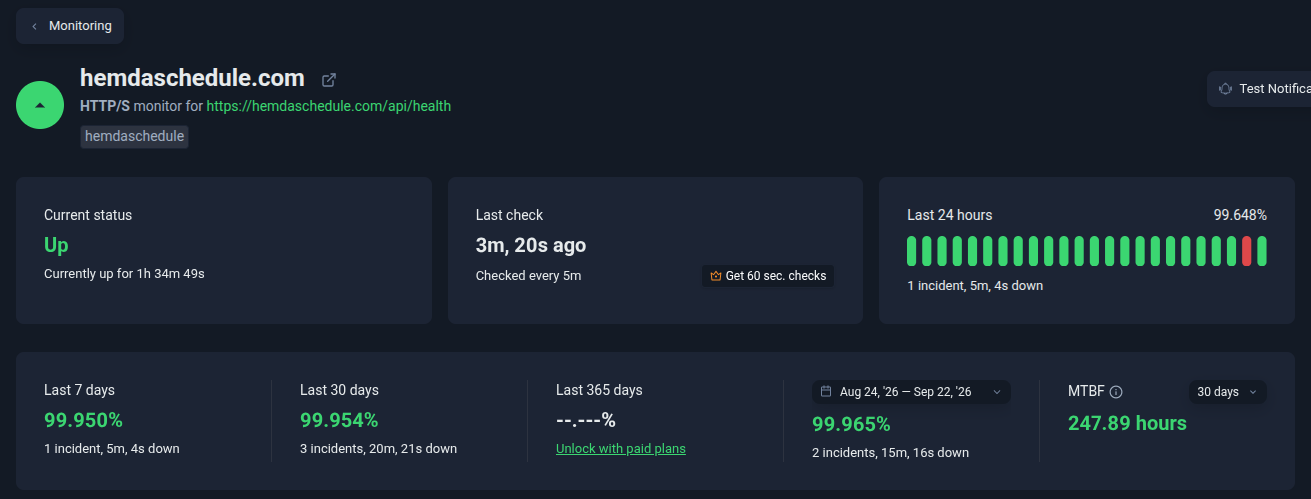
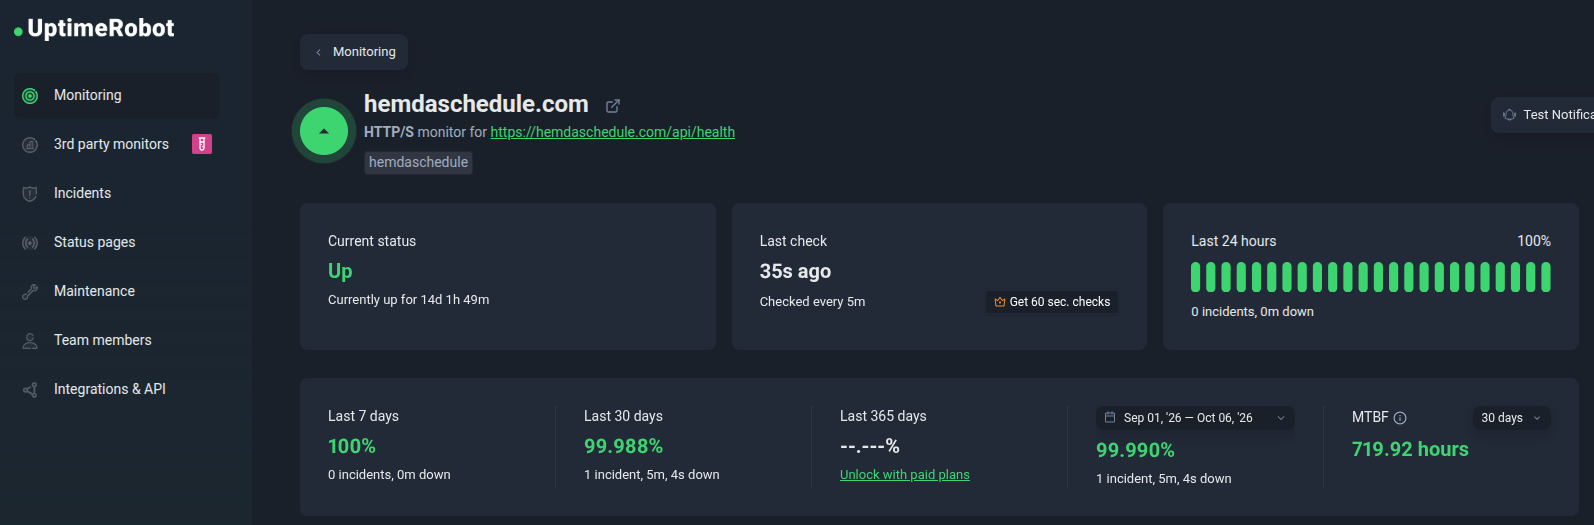
Update production monitoring screenshot and uptime figure (99.988%)
Replace the UptimeRobot screenshot with a fresher capture and sync the
caption text across all 5 language versions to match.

diff --git a/portfolio-case-ru.html b/portfolio-case-ru.html
@@ -385,9 +385,9 @@
       <img src="img/production-monitoring.png" alt="Production monitoring" onclick="openLightbox(this)">
       <div class="screenshot-caption">
         <strong>Production monitoring</strong> — система находится под постоянным внешним
-        мониторингом доступности. Uptime за последний месяц — 99.965%. Оба зарегистрированных
-        инцидента были плановыми остановками во время деплоя новых версий, включая миграции БД и
-        перезапуск контейнеров backend/frontend.
+        мониторингом доступности. Uptime за последний месяц — 99.988%. Единственный
+        зарегистрированный инцидент был плановой остановкой во время деплоя новой версии, включая
+        миграцию БД и перезапуск контейнеров backend/frontend.
       </div>
     </div>
 

diff --git a/portfolio-case-ua.html b/portfolio-case-ua.html
@@ -385,8 +385,8 @@
       <img src="img/production-monitoring.png" alt="Production monitoring" onclick="openLightbox(this)">
       <div class="screenshot-caption">
         <strong>Production monitoring</strong> — система перебуває під постійним зовнішнім
-        моніторингом доступності. Uptime за останній місяць — 99.965%. Обидва зареєстровані
-        інциденти були плановими зупинками під час деплою нових версій, включно з міграціями БД і
+        моніторингом доступності. Uptime за останній місяць — 99.988%. Єдиний зареєстрований
+        інцидент був плановою зупинкою під час деплою нової версії, включно з міграцією БД і
         перезапуском контейнерів backend/frontend.
       </div>
     </div>

diff --git a/portfolio-case-he.html b/portfolio-case-he.html
@@ -380,8 +380,8 @@
       <img src="img/production-monitoring.png" alt="Production monitoring" onclick="openLightbox(this)">
       <div class="screenshot-caption">
         <strong>Production monitoring</strong> — המערכת נמצאת תחת ניטור זמינות חיצוני מתמשך. זמן
-        פעילות בחודש האחרון — 99.965%. שני האירועים שנרשמו היו השבתות מתוכננות בזמן פריסת גרסאות
-        חדשות, כולל מיגרציות בסיס נתונים ואתחול מחדש של קונטיינרים ה-backend/frontend.
+        פעילות בחודש האחרון — 99.988%. האירוע היחיד שנרשם היה השבתה מתוכננת בזמן פריסת גרסה
+        חדשה, כולל מיגרציית בסיס נתונים ואתחול מחדש של קונטיינרים ה-backend/frontend.
       </div>
     </div>
 

diff --git a/portfolio-case-pl.html b/portfolio-case-pl.html
@@ -385,9 +385,9 @@
       <img src="img/production-monitoring.png" alt="Production monitoring" onclick="openLightbox(this)">
       <div class="screenshot-caption">
         <strong>Production monitoring</strong> — system znajduje się pod stałym zewnętrznym
-        monitoringiem dostępności. Uptime w ostatnim miesiącu — 99,965%. Oba zarejestrowane
-        incydenty to planowane przestoje podczas wdrażania nowych wersji, w tym migracje bazy
-        danych i restart kontenerów backend/frontend.
+        monitoringiem dostępności. Uptime w ostatnim miesiącu — 99,988%. Jedyny zarejestrowany
+        incydent to planowany przestój podczas wdrażania nowej wersji, w tym migracja bazy danych
+        i restart kontenerów backend/frontend.
       </div>
     </div>
 

diff --git a/portfolio-case-en.html b/portfolio-case-en.html
@@ -387,9 +387,9 @@
       <img src="img/production-monitoring.png" alt="Production monitoring" onclick="openLightbox(this)">
       <div class="screenshot-caption">
         <strong>Production monitoring</strong> — the system is under continuous external uptime
-        monitoring. Uptime over the last month — 99.965%. Both recorded incidents were planned
-        outages during version deployments, including database migrations and backend/frontend
-        container restarts.
+        monitoring. Uptime over the last month — 99.988%. The one recorded incident was a planned
+        outage during a version deployment, including a database migration and backend/frontend
+        container restart.
       </div>
     </div>
 
